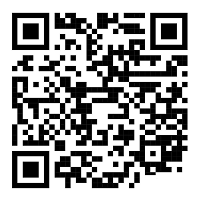
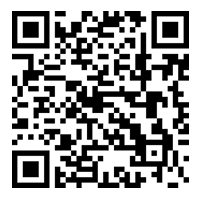
Правки 1
1. градиент убираем тут, везде убираем короче его, "и" и "который" чтоб не висели на строчке в конце.
2. между всеми заголовками и фото/текстом расстояние в два раза меньше
3. черная плашка цены должна кончаться по границе "купить", а то сейчас она выходит из всего блока
4. на 4ом фото показываю какое расстояние должно быть под заголовками
5. между отзывами, поделиться.. и блоками отзывов тоже самое расстояние как на 4ом фото показал
6. градиент в отзывах убираем, внизу под отзывами побольше расстояния до черного блока можно, а то он впритык, а еще у тебя заголовок опустился низко, они на каждой страничке в одном месте должны быть
7. между контактами и фото тоже растояние что в 4ом фото показал, а еще кьаркод давай я другой сделаю, я иконку забыл в него зашить
8. фото продли пожалуйста по границе черного блока
9. вот такое расстояние внизу от последнего блока до черной плашки, если в отзывах не хватает объема для низа страницы, то добавь второй ряд отзывов или растяни отзывы чтобы они были в высоту побольше
10. вкладка купить - градиент нахуй, белая линия тут есть над оплатой, над "Оплата" очень большое расстояние, короче во всех блоках между блоками информационными должно быть одно расстояние, не везде разные, тут именно оно слишком большое. Буква в висит. плашка черная с ценой выходит по ширине за границы блока. фото так же по низу продли немного чтобы оно сошлось с черной плашкой по низу. над оптовыми заказаами тоже белая линия

diff --git a/style.css b/style.css
@@ -162,7 +162,7 @@ a{
     display: flex;
     flex-direction: column;
     align-items: flex-start;
-    width: 769px;  
+    width: 652px;  
     height: 136px;  
     padding-left: 24px;  /* отступ слева */
     transition: opacity 0.3s ease;
@@ -210,7 +210,7 @@ a{
 
 .hero__text-description h1 {
     font-size: 64px;
-    margin-bottom: 20px;
+    margin-bottom: 5px;
     
 }
 .hero__text-description p {
@@ -453,9 +453,9 @@ a{
 .hero__black-bg {
     width: 100vw;
     margin-left: calc(-50vw + 50%);
-    background: linear-gradient(transparent,3%, rgba(0, 0, 0, 0.8));
-    padding: 40px 0;
-    margin-top: 60px;
+    background: rgba(0, 0, 0, 0.8);
+    padding: 1px 0;
+    margin-top: 0px;
 }
 
 .hero__description-wrapper {
@@ -497,7 +497,7 @@ a{
 /* ===== Страница отзывов ===== */
 
 .reviews {
-    padding-top: 26px;
+    padding-top: 0px;
 }
 
 
@@ -507,9 +507,9 @@ a{
 .reviews__black-bg {
     width: 100vw;
     margin-left: calc(-50vw + 50%);
-    background: linear-gradient(transparent,25%, rgba(0, 0, 0, 1));
-    padding: 60px 0 40px 0;
-    margin-top: 0;  /* ← убираем margin-top */
+    /*background: rgba(0, 0, 0, 0.8);*/
+    padding: 0px 0 40px 0;
+      /* ← убираем margin-top */
     position: relative;
 }
 
@@ -518,7 +518,7 @@ a{
 .reviews__container {
     max-width: 1306px;
     margin-inline: auto;
-    padding: 0 20px;
+    padding: 0 0px;
 }
 
 .reviews__container h1 {
@@ -526,16 +526,19 @@ a{
     font-size: 64px;
     font-weight: 700;
     color: white;
-    margin-bottom: 20px;
+    margin-bottom: 0px;
+    margin-top: 10px;      
 }
 
 .reviews__share-text {
     font-family: 'Noto Sans', sans-serif;
     font-size: 18px;
-    font-weight: 300;
+    font-weight: 500;
     color: White;
-    margin-bottom: 50px;
+    margin-bottom: 20px;
     line-height: 1.6;
+    text-shadow: 0px 4px 20px rgba(0, 0, 0, 1);
+    margin-top: 0; 
 }
 
 .reviews__email {
@@ -569,11 +572,12 @@ a{
 }
 
 .reviews__card {
-    background-color: rgba(255, 255, 255, 0.05);
+    background-color: rgba(0, 0, 0, 0.6);
     border-radius: 15px;
     padding: 30px;
     border: 1px solid rgba(255, 255, 255, 0.08);
     transition: transform 0.3s ease, box-shadow 0.3s ease;
+    margin-bottom: 60px;
 }
 
 .reviews__card:hover {
@@ -661,7 +665,7 @@ a{
     font-size: 64px;
     font-weight: 700;
     color: white;
-    margin: 0 0 40px 0;
+    margin: 0 0 10px 0;
 }
 
 /* Основная сетка: изображение слева, контент справа */
@@ -679,7 +683,7 @@ a{
 .contacts__image {
     display: block;
     width: 628px;
-    height: 488px;  /* ← ФИКСИРОВАННАЯ ВЫСОТА КАК У ПРАВОЙ КОЛОНКИ */
+    height: 515px;  /* ← ФИКСИРОВАННАЯ ВЫСОТА КАК У ПРАВОЙ КОЛОНКИ */
     object-fit: cover;  /* ← чтобы изображение не искажалось */
     border-radius: 10px;
 }
@@ -978,7 +982,7 @@ a{
     display: flex;
     gap: 28px;
     align-items: flex-start;
-    margin-bottom: 60px;
+    margin-bottom: 20px;
 }
 
 /* Левая колонка с изображением */
@@ -1086,8 +1090,7 @@ a{
     flex-direction: column;
     align-items: flex-start;
     justify-content: center;
-    width: 100%;
-    max-width: 769px;
+    width: 600px;
     height: 136px;
     padding-left: 24px;
     transition: opacity 0.3s ease;
@@ -1239,10 +1242,10 @@ a{
 .buy__text {
     display: flex;
     flex-direction: column;
-    gap: 40px;
-    margin-top: 60px;
-    padding-top: 40px;
-    border-top: 1px solid rgba(255, 255, 255, 0.1);
+    gap: 0px;
+    margin-top: 0px;
+    padding-top: 0px;
+    /*border-top: 1px solid rgba(255, 255, 255, 0.1);*/
     text-shadow: 0px 4px 20px rgba(0, 0, 0, 1);
 }
 
@@ -1270,7 +1273,7 @@ a{
     font-weight: 400;
     color: rgba(255, 255, 255, 1);
     line-height: 1.6;
-    margin: 0 0 px 0;  /* ← РАССТОЯНИЕ МЕЖДУ СТРОКАМИ 36px */
+    margin: 0 0 20px 0;  /* ← РАССТОЯНИЕ МЕЖДУ СТРОКАМИ 36px */
 }
 
 .buy__text-payment p:last-child,
@@ -1283,7 +1286,7 @@ a{
 .buy__wholesale {
     margin-top: 0px;
     padding-top: 0px;
-    border-top: 1px solid rgba(255, 255, 255, 0.1);
+    /*border-top: 1px solid rgba(255, 255, 255, 0.1);*/
     
 }
 

diff --git a/SaitResonans.html b/SaitResonans.html
@@ -58,9 +58,9 @@
                     <div class="hero__description-wrapper">
                     <div class="hero__text-description">
                         <h1>О ПРОЕКТЕ</h1>
-                        <p>Проект посвящён истории музыкальных жанров и знакомству с культурой, которая окружает нас каждый день, но часто остаётся незамеченной.</p>
-                        <p class="no-margin">Цель проекта — совместить полезные интересные факты и приятно провести время одному или в компании и узнать друг друга получше.</p>
-                        <p>Эта игра стала первой в серии. В будущем она продолжит новые тематические колоды, посвящённые другим музыкальным жанрам, музыке разных городов, а также миру кино и другим направлениям культуры.</p>
+                        <p class="no-margin">Проект посвящён истории музыкальных жанров и знакомству с культурой,<br>которая окружает нас каждый день, но часто остаётся незамеченной.</p>
+                        <p>Цель проекта — совместить полезные интересные факты и приятно провести время одному или в компании и узнать друг друга получше.</p>
+                        <p>Эта игра стала первой в серии. В будущем она продолжит новые тематические колоды, посвящённые другим музыкальным жанрам, музыке разных городов, а также миру кино<br>и другим направлениям культуры.</p>
                         <div class="hero__imges-backgraund-red">
                             <p><span class="hero__text-bold">В комплекте:</span> 100 игровых карт с вопросами по 10 музыкальными жанрами, инструкция, карта с QR-кодами на плейлисты и фирменная коробка, в которой удобно хранить игру.</p>
                         </div>   

diff --git a/buy.html b/buy.html
@@ -37,7 +37,7 @@
                         <img src="images/Rectangle 7.png" alt="Buy Image" class="buy__image">
                     </div>
                     <div class="buy__main-info-right">
-                        <p class="buy__main-info-right-text">Для оформления заказа напишите в Telegram: <span class="hero__text-bold">@spiderzeppelin</span></p>
+                        <p class="buy__main-info-right-text">Для оформления заказа напишите<br>в Telegram: <span class="hero__text-bold">@spiderzeppelin</span></p>
                         
                         <!-- Блок с QR-кодом и звездочкой в одной строке -->
                         <div class="buy__qr-wrapper">
